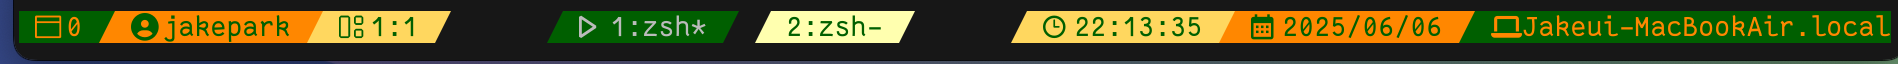
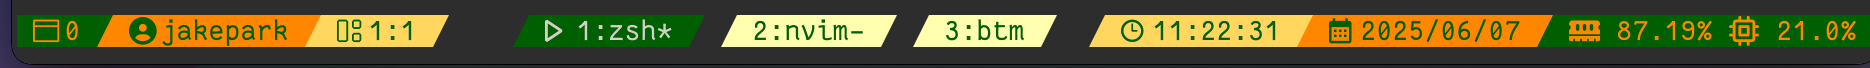
Docs: Update README.md & capture images

diff --git a/README.md b/README.md
@@ -2,6 +2,7 @@
 
 `jpark6/tmux-status` is simple tmux status plugin
 
+
 default 
 ```shell
 status_bg_color="default" # statusbar background color
@@ -25,32 +26,35 @@ host_icon=" "
 if want to change colors & icons & separators
 change `tmux-status.tmux` file's main function code
 
-
 ## examples
-change 1
-- rounded separators & cyberfunk color
+rounded separators & cyberfunk color
 ```shell
   set_color "default" "#541690" "#FF4949" "#FF8D29" "#FFCD38" # cyberpunk - purple pink orange
   set_icons "" "" " " " " " " " " " " " " " "
 ```
-![./images/change1.png](./images/change1.png)
+![./images/round-cyberpunk.png](./images/round-cyberpunk.png)
 
-change 2
-- wave separators & cold color
+wave separators & cold color
 ```shell
   set_color "light" "#11009E" "#4942E4" "#8696FE" "#C4B0FF" # cold - navy blue people
   set_icons " " " " " " " " " " " " " " " " " "
 ```
-![./images/change2.png](./images/change2.png)
+![./images/wave-cold.png](./images/wave-cold.png)
 
-change 3
-- No seraprators a& No icon and olive gray color
+flame separators & red pearch green
+```shell
+  set_color default "#FF3F33" "#FFE6E1" "#075B5E" "#9FC87E" # red peach green 
+  set_icons " " "" "" " " " " " " " " " " " " " "
+```
+![./images/flame-red.png](./images/flame-red.png)
+
+No seraprators & No icon and olive gray color
 ```shell
   set_color "dark" "#626F47" "#A4B465" "#F5ECD5" "#F0BB78" # gray olive
   set_icons "" "" "" "" "" "" "" "" "" # use "" if don't want icon and seperator
 ```
 
-![./images/change3.png](./images/change3.png)
+![./images/noseparator-noicon.png](./images/noseparator-noicon.png)
 
 ## install
 ### Tmux Plugin Manager (TPM)
@@ -72,5 +76,10 @@ add to  `.tmux.conf` file:
 ```shell
 run $HOME/.tmux/plugins/tmux-status/tmux-status.tmux
 ```
+
+## plugins
+if want to see mem/cpu usage percent  
+install [thewtex/tmux-mem-cpu-load](https://github.com/thewtex/tmux-mem-cpu-load)
+
 
 
